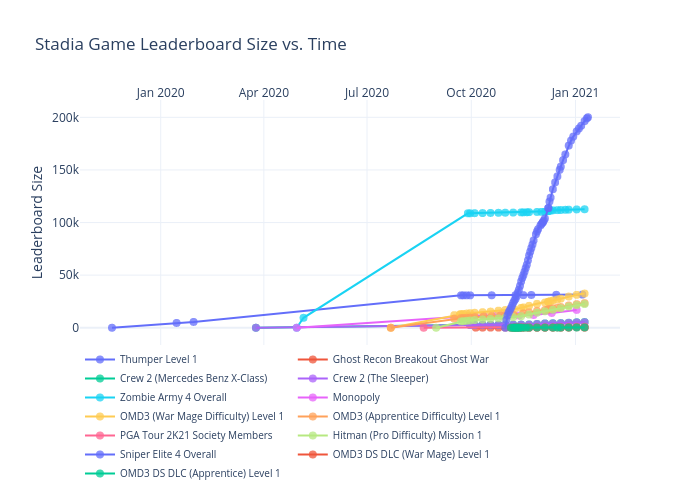
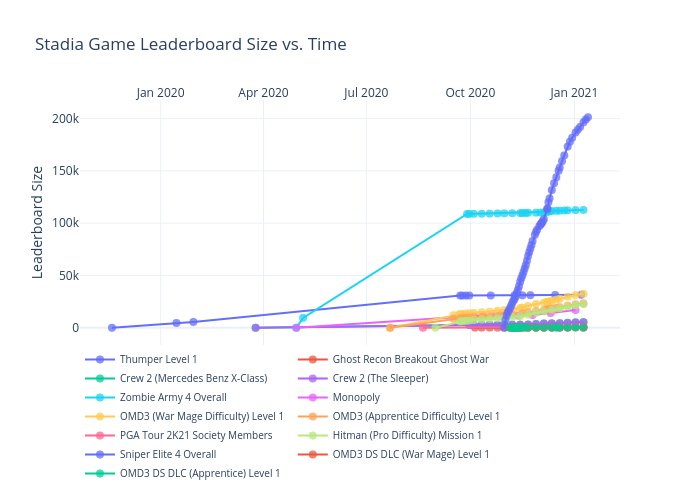
Add files via upload

diff --git a/leaderboards/figure.js b/leaderboards/figure.js
@@ -102,7 +102,7 @@ var figure = {
                 "2021-01-07",
                 "2021-01-09",
                 "2021-01-11",
-                "2021-01-12",
+                "2021-01-13",
                 "2021-01-16",
                 "2021-01-23",
                 "2021-01-30",
@@ -310,7 +310,7 @@ var figure = {
                 "2021-01-07",
                 "2021-01-09",
                 "2021-01-11",
-                "2021-01-12",
+                "2021-01-13",
                 "2021-01-16",
                 "2021-01-23",
                 "2021-01-30",
@@ -519,7 +519,7 @@ var figure = {
                 "2021-01-07",
                 "2021-01-09",
                 "2021-01-11",
-                "2021-01-12",
+                "2021-01-13",
                 "2021-01-16",
                 "2021-01-23",
                 "2021-01-30",
@@ -728,7 +728,7 @@ var figure = {
                 "2021-01-07",
                 "2021-01-09",
                 "2021-01-11",
-                "2021-01-12",
+                "2021-01-13",
                 "2021-01-16",
                 "2021-01-23",
                 "2021-01-30",
@@ -937,7 +937,7 @@ var figure = {
                 "2021-01-07",
                 "2021-01-09",
                 "2021-01-11",
-                "2021-01-12",
+                "2021-01-13",
                 "2021-01-16",
                 "2021-01-23",
                 "2021-01-30",
@@ -1146,7 +1146,7 @@ var figure = {
                 "2021-01-07",
                 "2021-01-09",
                 "2021-01-11",
-                "2021-01-12",
+                "2021-01-13",
                 "2021-01-16",
                 "2021-01-23",
                 "2021-01-30",
@@ -1351,7 +1351,7 @@ var figure = {
                 "2021-01-07",
                 "2021-01-09",
                 "2021-01-11",
-                "2021-01-12",
+                "2021-01-13",
                 "2021-01-16",
                 "2021-01-23",
                 "2021-01-30",
@@ -1560,7 +1560,7 @@ var figure = {
                 "2021-01-07",
                 "2021-01-09",
                 "2021-01-11",
-                "2021-01-12",
+                "2021-01-13",
                 "2021-01-16",
                 "2021-01-23",
                 "2021-01-30",
@@ -1769,7 +1769,7 @@ var figure = {
                 "2021-01-07",
                 "2021-01-09",
                 "2021-01-11",
-                "2021-01-12",
+                "2021-01-13",
                 "2021-01-16",
                 "2021-01-23",
                 "2021-01-30",
@@ -1978,7 +1978,7 @@ var figure = {
                 "2021-01-07",
                 "2021-01-09",
                 "2021-01-11",
-                "2021-01-12",
+                "2021-01-13",
                 "2021-01-16",
                 "2021-01-23",
                 "2021-01-30",
@@ -2187,7 +2187,7 @@ var figure = {
                 "2021-01-07",
                 "2021-01-09",
                 "2021-01-11",
-                "2021-01-12",
+                "2021-01-13",
                 "2021-01-16",
                 "2021-01-23",
                 "2021-01-30",
@@ -2285,7 +2285,7 @@ var figure = {
                 "",
                 "196432",
                 "199077",
-                "200110"
+                "201260"
             ],
             "marker": {
                 "size": 8,
@@ -2398,7 +2398,7 @@ var figure = {
                 "2021-01-07",
                 "2021-01-09",
                 "2021-01-11",
-                "2021-01-12",
+                "2021-01-13",
                 "2021-01-16",
                 "2021-01-23",
                 "2021-01-30",
@@ -2607,7 +2607,7 @@ var figure = {
                 "2021-01-07",
                 "2021-01-09",
                 "2021-01-11",
-                "2021-01-12",
+                "2021-01-13",
                 "2021-01-16",
                 "2021-01-23",
                 "2021-01-30",
@@ -2723,8 +2723,8 @@ var figure = {
             "side": "top",
             "type": "date",
             "range": [
-                "2019-10-24 00:45:32.0158",
-                "2021-02-06 23:14:27.9842"
+                "2019-10-23 23:16:29.9492",
+                "2021-02-08 00:43:30.0508"
             ],
             "title": {
                 "text": ""
@@ -2734,8 +2734,8 @@ var figure = {
         "yaxis": {
             "type": "linear",
             "range": [
-                -14474.885231048022,
-                214584.885231048
+                -16632.65236470015,
+                217892.65236470016
             ],
             "title": {
                 "text": "Leaderboard Size"
